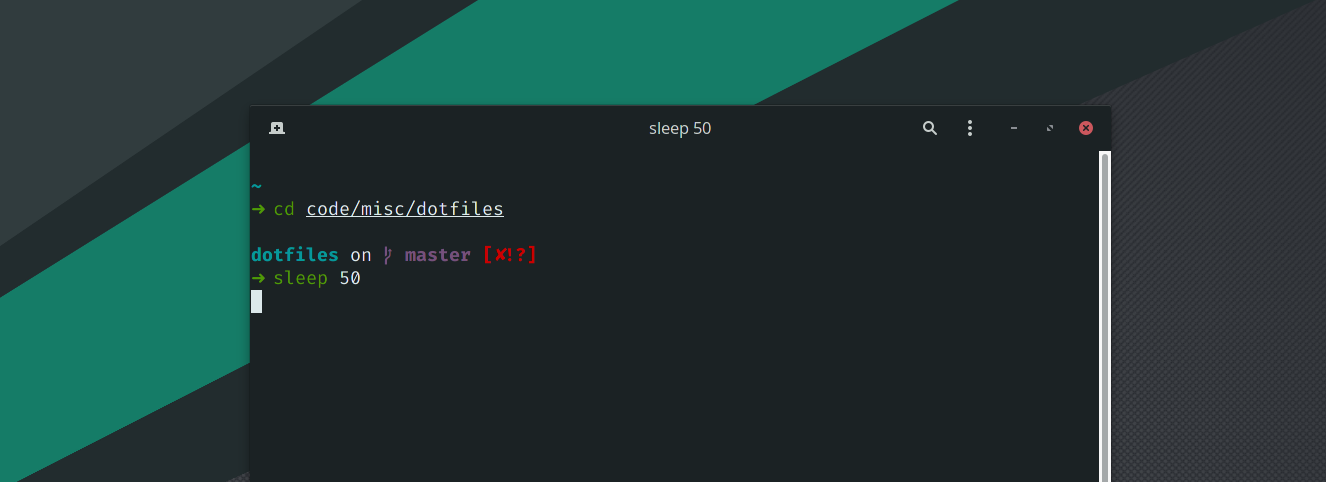
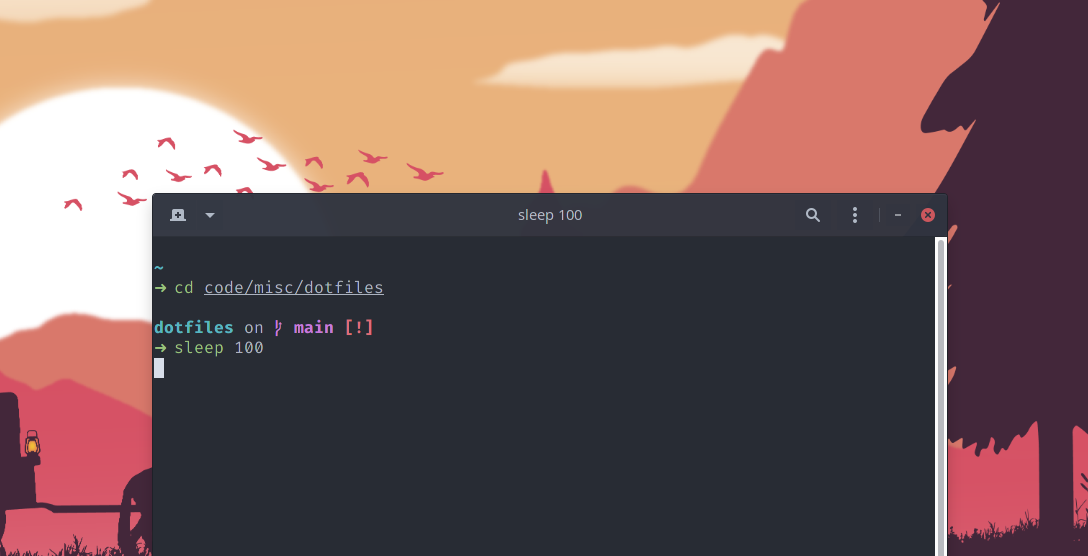
Update README

diff --git a/README.md b/README.md
@@ -61,6 +61,18 @@ cp vim/.vimrc ~/.vimrc
 - [bat](https://github.com/sharkdp/bat): cat(1) clone with wings
 - [broot](https://github.com/Canop/broot): a new way to navigate directory trees
 
-### Manjaro linux specific
+## Configuation
+
+## Appearance
+
+- [Arc theme](https://github.com/horst3180/Arc-theme)
+- [nerd-fonts](https://www.nerdfonts.com/) - FiraMono Nerd Font
+- One dark theme
+  - [JetBrains](https://plugins.jetbrains.com/plugin/11938-one-dark-theme)
+  - [VS Code](https://marketplace.visualstudio.com/items?itemName=zhuangtongfa.Material-theme)
+  - [Gnome terminal](https://github.com/denysdovhan/one-gnome-terminal)
+- [Wallpaper - A Journey](https://www.deviantart.com/asthi21/art/A-Journey-873092128)
+
+## Manjaro
 
 - [yay](https://github.com/Jguer/yay)
